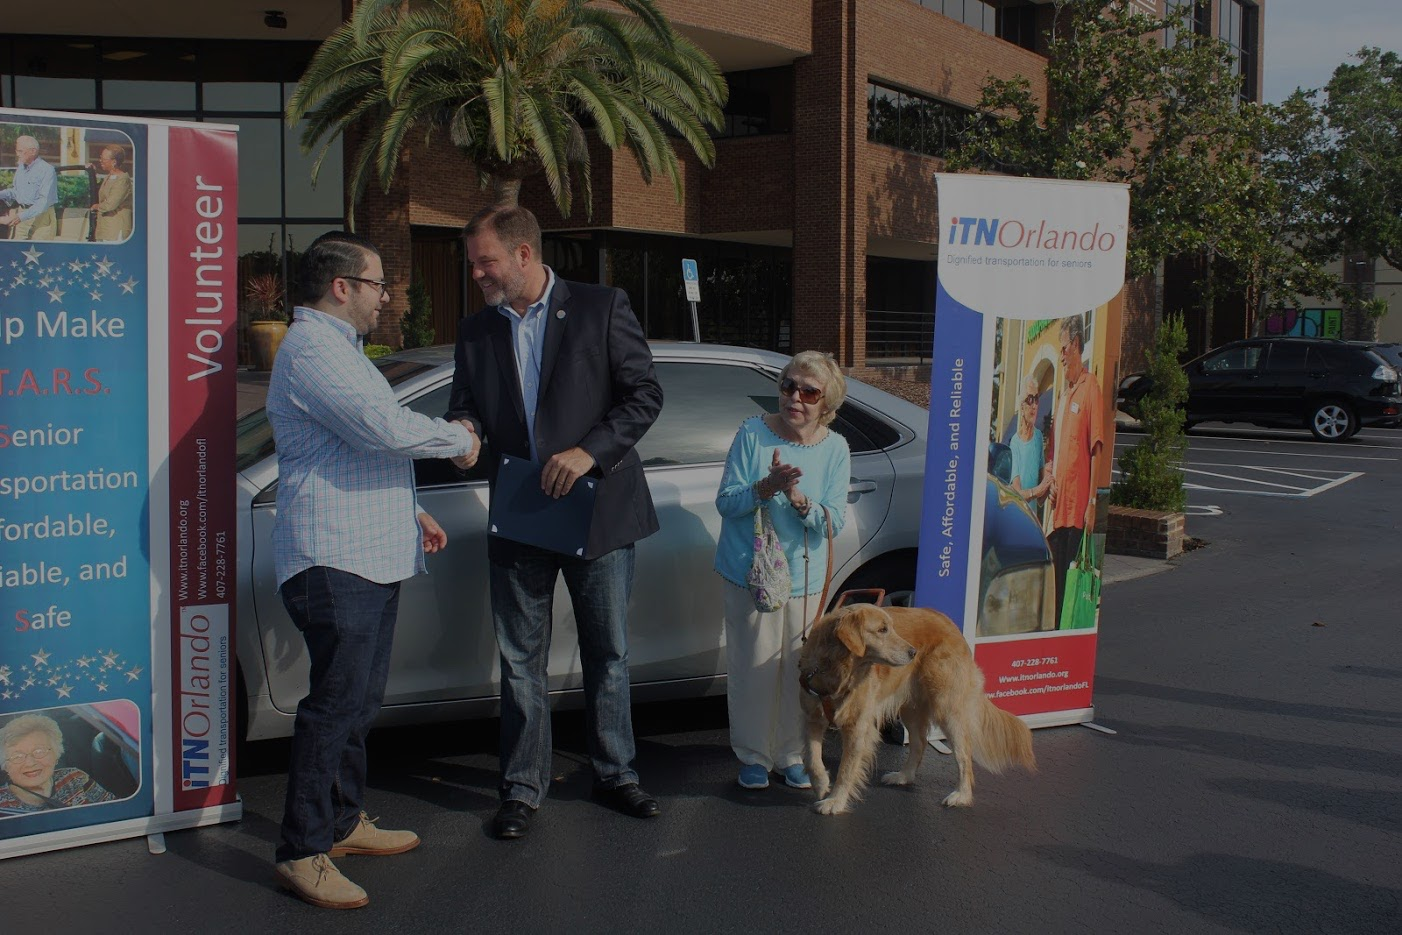
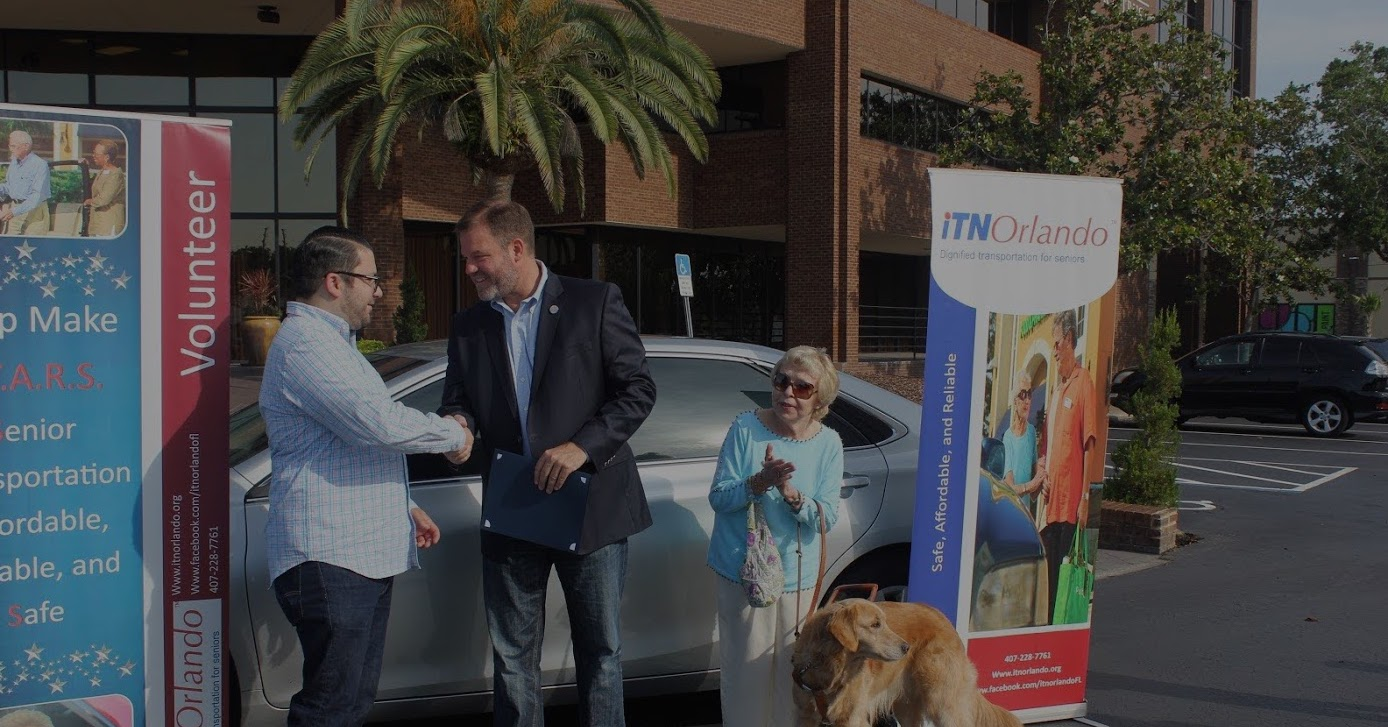
better position home slide

diff --git a/app/views/home.html b/app/views/home.html
@@ -14,7 +14,7 @@
 <div class="carousel-inner">
   
   <div class="item active">
-    <img ng-src="{{assetsPath}}/images/dark/mrc-orlando2.jpg" alt="mayor proclamation" style="object-position:top">
+    <img ng-src="{{assetsPath}}/images/dark/mrc-orlando2.JPG" alt="mayor proclamation">
     <h2 class="carousel-statement">
       City of Winter Park Proclaims May 2018 as ITN<em>Orlando</em> Month.
       <a ui-sref="news({anchor: 'announcement-text'})" style="color:white"><u>Read more</u></a>
